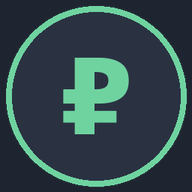
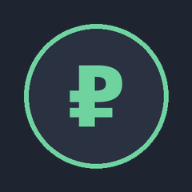
Add files via upload

diff --git a/icon-fixer.html b/icon-fixer.html
@@ -1,0 +1,92 @@
+<!DOCTYPE html>
+<html>
+<head>
+<meta charset="UTF-8">
+<title>Фиксер иконок для PWA</title>
+<style>
+body { font-family: Arial; padding: 20px; background: #f0f0f0; }
+.container { max-width: 600px; margin: 0 auto; background: white; padding: 20px; border-radius: 10px; }
+button { background: #1f9d63; color: white; border: none; padding: 10px 20px; border-radius: 5px; cursor: pointer; font-size: 16px; margin: 10px 5px; }
+canvas { border: 1px solid #ccc; margin: 10px 0; }
+.preview { display: inline-block; margin: 10px; }
+</style>
+</head>
+<body>
+<div class="container">
+<h1>Фиксер иконок для PWA</h1>
+<p>Загрузи иконку, она будет уменьшена и размещена по центру на темном фоне с правильными отступами для Android.</p>
+
+<input type="file" id="fileInput" accept="image/*">
+<br>
+<label>Размер выходной иконки:
+<select id="sizeSelect">
+<option value="192">192x192</option>
+<option value="512">512x512</option>
+</select>
+</label>
+<br>
+<button onclick="processIcon()">Обработать иконку</button>
+<button onclick="downloadIcon()" id="downloadBtn" style="display:none">Скачать</button>
+
+<div id="preview"></div>
+<canvas id="canvas" style="display:none"></canvas>
+</div>
+
+<script>
+let processedBlob = null;
+
+function processIcon() {
+  const file = document.getElementById('fileInput').files[0];
+  const size = parseInt(document.getElementById('sizeSelect').value);
+
+  if (!file) {
+    alert('Выбери файл иконки!');
+    return;
+  }
+
+  const img = new Image();
+  img.onload = function() {
+    const canvas = document.getElementById('canvas');
+    const ctx = canvas.getContext('2d');
+
+    canvas.width = size;
+    canvas.height = size;
+
+    // Заливаем фон темным цветом
+    ctx.fillStyle = '#1e2430';
+    ctx.fillRect(0, 0, size, size);
+
+    // Уменьшаем иконку до 80% размера (безопасная зона для maskable)
+    const iconSize = size * 0.8;
+    const offset = (size - iconSize) / 2;
+
+    ctx.drawImage(img, offset, offset, iconSize, iconSize);
+
+    // Конвертируем в blob
+    canvas.toBlob(function(blob) {
+      processedBlob = blob;
+
+      // Показываем превью
+      const preview = document.getElementById('preview');
+      const url = URL.createObjectURL(blob);
+      preview.innerHTML = '<div class="preview"><h3>Результат:</h3><img src="' + url + '" style="width:192px; height:192px; border:1px solid #ccc"></div>';
+
+      document.getElementById('downloadBtn').style.display = 'inline-block';
+    }, 'image/png');
+  };
+
+  img.src = URL.createObjectURL(file);
+}
+
+function downloadIcon() {
+  if (!processedBlob) return;
+
+  const size = document.getElementById('sizeSelect').value;
+  const a = document.createElement('a');
+  a.href = URL.createObjectURL(processedBlob);
+  a.download = 'icon-' + size + '.png';
+  a.click();
+}
+</script>
+</body>
+</html>
